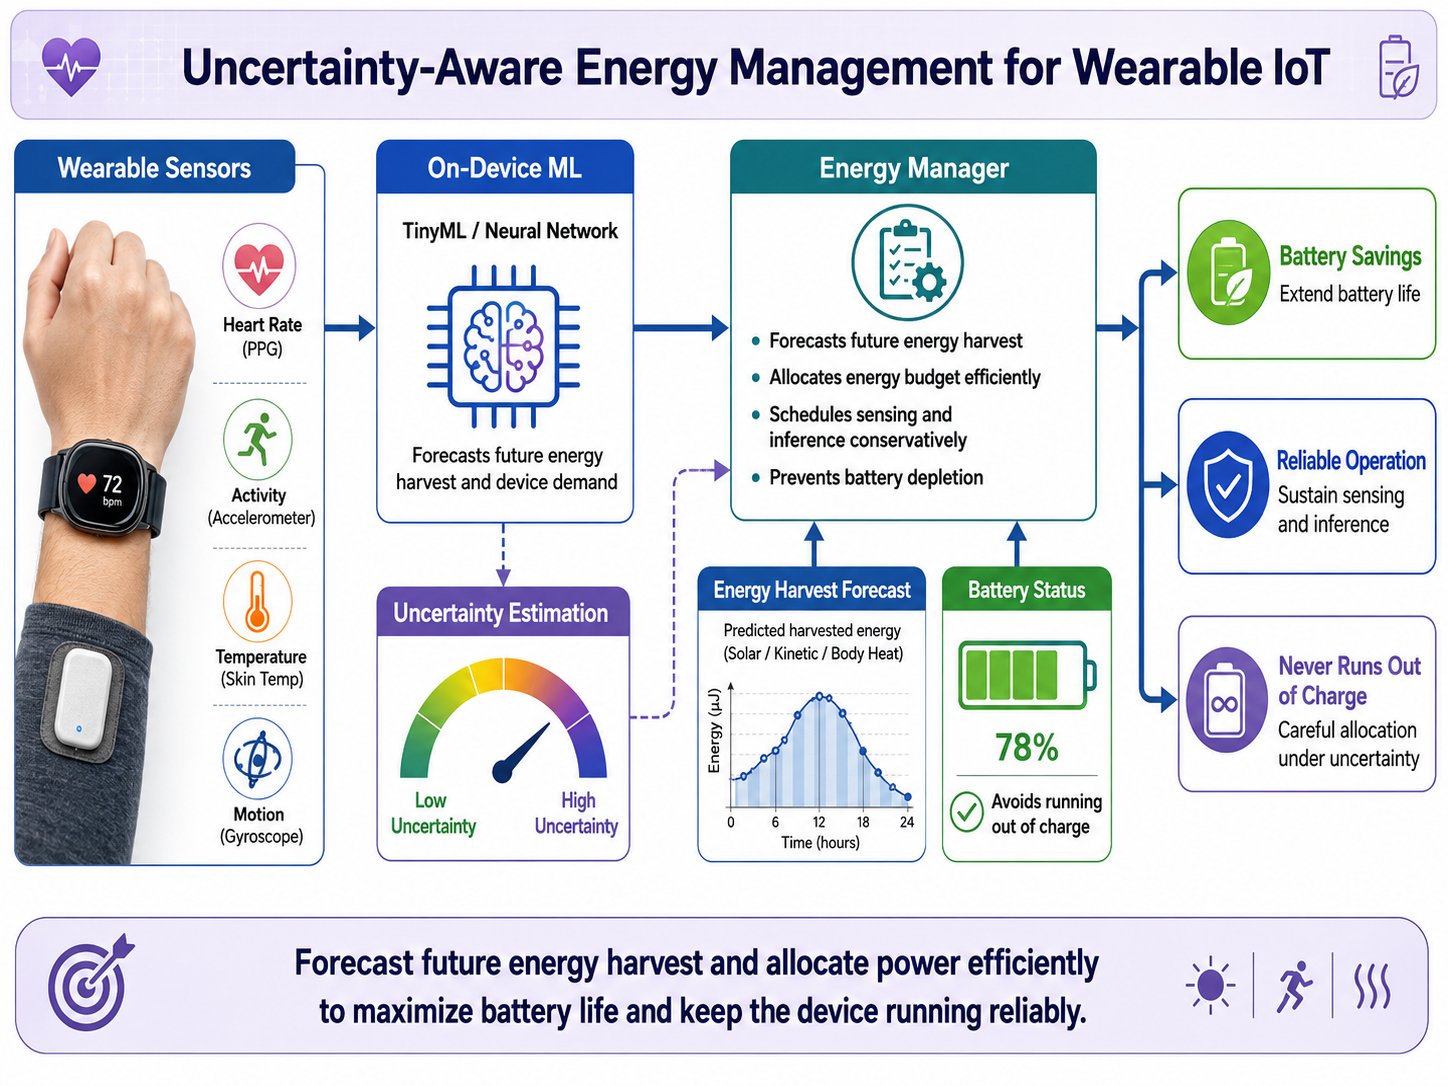
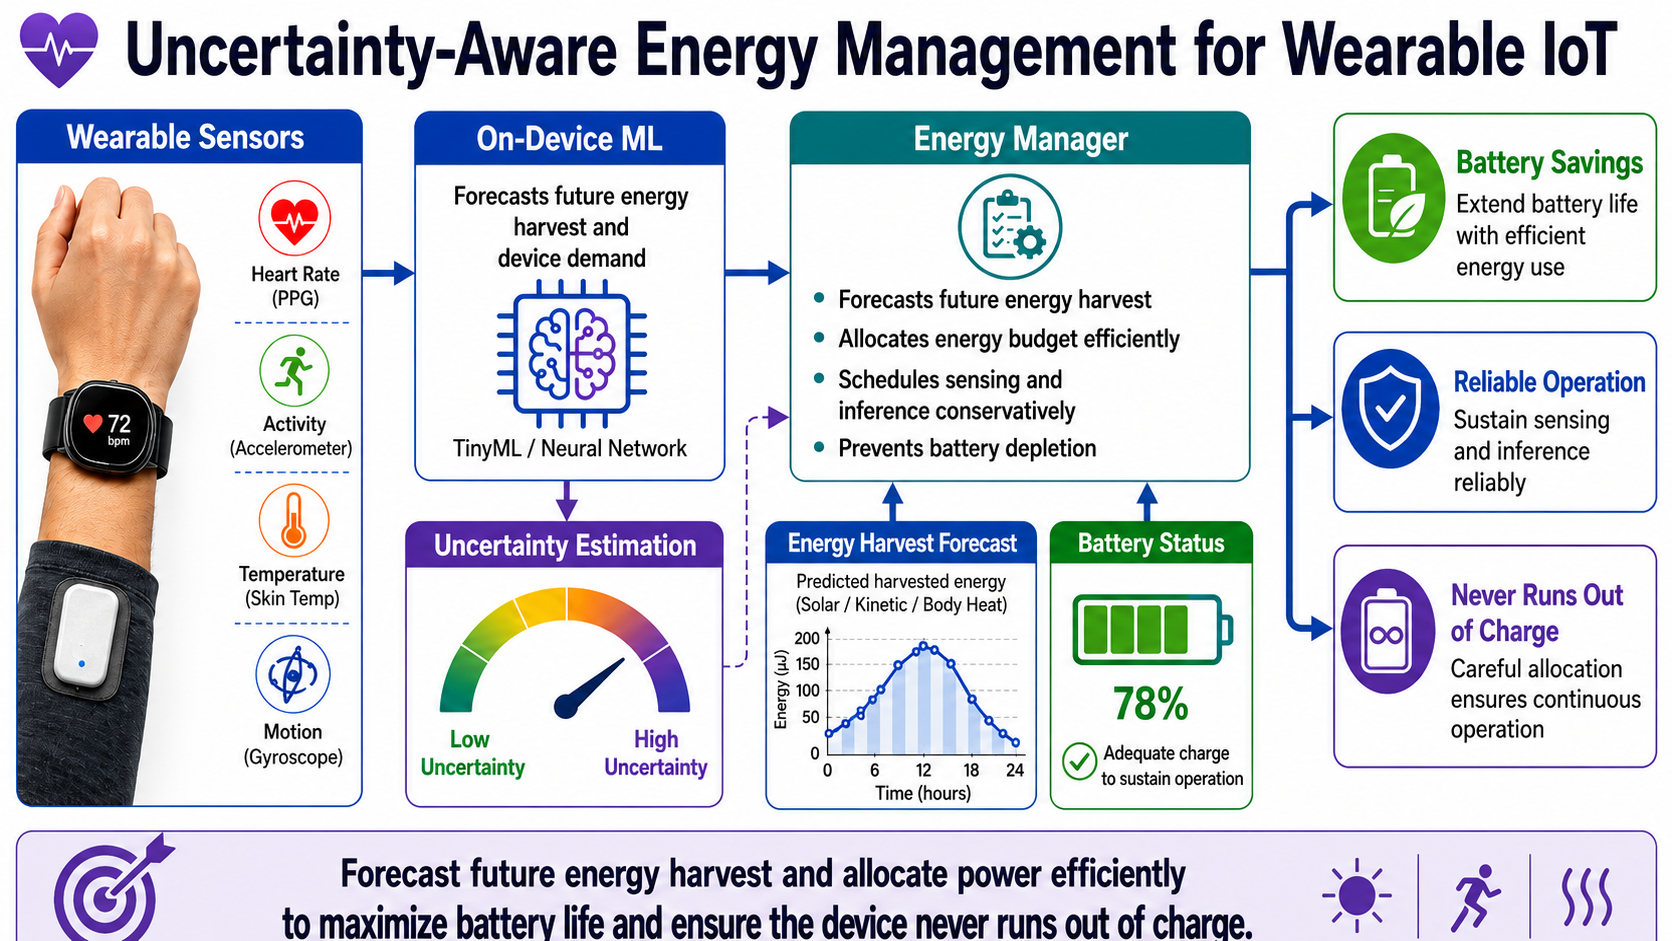
update

diff --git a/index.html b/index.html
@@ -15,7 +15,7 @@
 
     <script defer src="assets/fontawesome/js/all.js"></script>
     <link rel="stylesheet" href="assets/plugins/bootstrap/css/bootstrap.min.css">
-    <link id="theme-style" rel="stylesheet" href="assets/css/styles.css?v=5">
+    <link id="theme-style" rel="stylesheet" href="assets/css/styles.css?v=6">
     <script>
         (function () {
             var t = localStorage.getItem("site-theme");
@@ -141,7 +141,7 @@
                             <div class="project-row">
                                 <div class="project-body">
                                     <div class="project-image-wrap">
-                                        <img class="project-image" src="assets/images/projects/cp.png"
+                                        <img class="project-image" src="images/CP_for_UQ.png"
                                             alt="Conformal prediction for uncertainty quantification" />
                                     </div>
                                     <div class="project-desc-col">
@@ -159,7 +159,7 @@
                             <div class="project-row">
                                 <div class="project-body">
                                     <div class="project-image-wrap">
-                                        <img class="project-image" src="assets/images/projects/llm.png"
+                                        <img class="project-image" src="images/LLM_Hallucination.png"
                                             alt="LLM hallucination control" />
                                     </div>
                                     <div class="project-desc-col">
@@ -177,7 +177,7 @@
                             <div class="project-row">
                                 <div class="project-body">
                                     <div class="project-image-wrap">
-                                        <img class="project-image" src="assets/images/projects/wearable.png"
+                                        <img class="project-image" src="images/wearable_IoT.png"
                                             alt="Wearable IoT energy management" />
                                     </div>
                                     <div class="project-desc-col">

diff --git a/assets/css/styles.css b/assets/css/styles.css
@@ -386,9 +386,12 @@ a:hover {
 
 #projects .project-image {
   display: block;
-  width: 80%;
+  width: 90%;
+  max-width: 100%;
   height: auto;
+  max-height: 220px;
   margin: 0 auto;
+  object-fit: contain;
   border-radius: 8px;
   border: 1px solid var(--card-border);
   background: var(--bg-0);